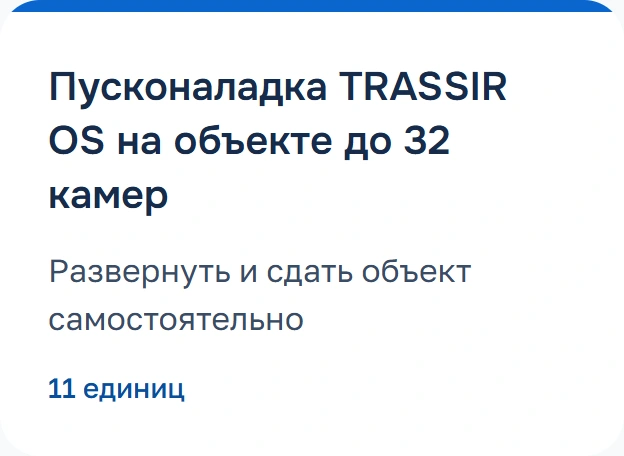
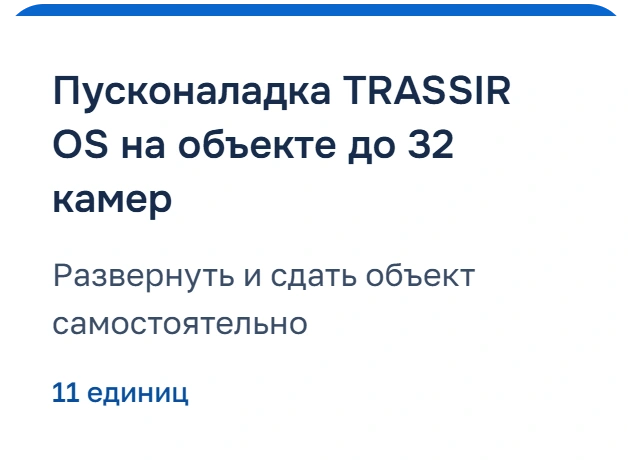
Preserve native rounded contours in Russian Learn captures

diff --git a/ds/screens/case-learn.md b/ds/screens/case-learn.md
@@ -1,3 +1,7 @@
+## Прозрачный контур native компонентов · 05.10.2026
+
+Паспорта программы, четыре Card, TrustHeader и ProgressMeter RU пересняты с прозрачным фоном окружающей страницы. Их собственные скругления, заливки, текст и поля сохраняются. Общий `scripts/lib/native-alpha-capture.mjs` ставит исходный компонент на целочисленный origin и убирает только фон предков; Card сохраняет 2 CSS px bleed. Оба RU capture entrypoints используют этот helper, чтобы прямоугольная подложка не возвращалась при пересъёмке. `node scripts/verify-learn-native-alpha.mjs` проверяет четыре угла всех 28 EN/RU файлов и отображаемых responsive источников на Home и Learn при 390/820/1440 px; `ALPHA_BROWSER=webkit` запускает ту же проверку в WebKit.
+
 ## Поля документальных кадров · 05.10.2026
 
 Assessment и Landing EN/RU сняты целыми native DOM-областями с полями исходной страницы. У assessment сохранены PageShell gutters и верх/низ 32 px на mobile, 48 px на 1024 px; белая карточка не касается края. У landing сохранены поля wrap (20 px на mobile, 120 px на 1440 px), целый hero-bottom и нижний интервал. Внешний CaseScreen не заменяет внутренние поля кадра. Повторная съёмка: `node scripts/shoot-learn-frame-fields.mjs`; размеры, SHA256 и четыре поля каждой области — `tasks/portfolio-rebuild/integration/learn-frame-fields-2026-10-05.json`.
